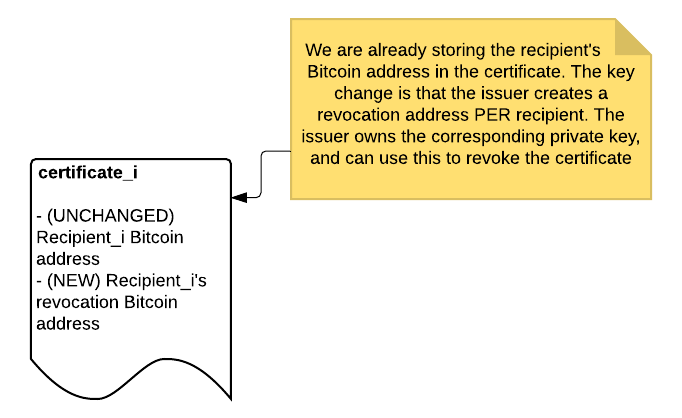
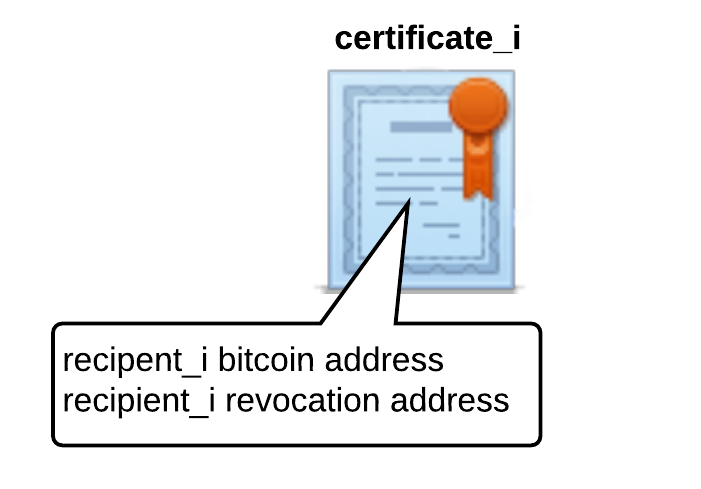
update batch issuing info

diff --git a/guide/batch-issuing.md b/guide/batch-issuing.md
@@ -4,47 +4,48 @@ layout: guide
 
 ## Batch Issuing (Technical Details)
 
-While you can issue one certificate with one Bitcoin transaction, it is far more efficient to use one Bitcoin transaction to issue a batch of certificates. The batch limit is roughly 2,000 and is determined by the Bitcoin transaction size limit.
+While you can issue one certificate with one Bitcoin transaction, it is far more efficient to use one Bitcoin transaction to issue a batch of certificates. Blockchain Certificates can be issued as a batch with a limit of roughly 2,000, as determined by the Bitcoin transaction size limit.
 
-The issuer builds a Merkle tree of certificate hashes and registers the Merkle root as the OP_RETURN field in the Bitcoin transaction.
+The issuer builds a Merkle tree of certificate hashes and registers the Merkle root as the OP_RETURN field in the Bitcoin transaction. 
 
-Verification of certificates issued as a batch changes the validation process because the recipient must prove their certificate’s location in the tree. The Chainpoint JSON LD schema is currently being used for [Merkle receipts](https://github.com/chainpoint/whitepaper/raw/master/chainpoint_white_paper.pdf).
+### How it works
 
-A batch-issued certificate is verified by the Merkle proof/receipt, which consists of:
+Suppose the batch contains `n` certificates, and certificate `i` contains recipient `i`'s information:
 
-*   The recipient’s signed certificate
-*   The transaction on the blockchain
-*   A path to the recipient’s signed certificate in the Merkle tree
+![](/assets/img/pictures/cert_i.png)
+
+The issuer hashes each certificate and combines then into a Merkle tree as follows:
+
+![](/assets/img/pictures/merkle.png)
+
+The root of the Merkle tree is issued on the Bitcoin blockchain. The complete Bitcoin transaction outputs are described in 'Transaction structure'.
+
+The Blockchain Certificate given to recipient `i` contains a [Chainpoint V2-formatted Merkle receipt](https://github.com/chainpoint/whitepaper/raw/master/chainpoint_white_paper.pdf) proving that certificate `i` is contained in the Merkle tree. This receipt contains:
+ * The Bitcoin transaction ID storing the Merkle root
+ * The Merkle path from recipient `i`'s certificate to the Merkle root, i.e. the path highlighted in orange above. h_i -> … -> root
+
+The [verification process](verification-process.html) performs computations to check that:
+ * the hash of certificate `i` matches the value in the receipt
+ * the Merkle path is valid
+ * the Merkle root stored on the blockchain matches the value in the receipt
+
+These steps establish that the certificate has not been tampered with since it was issued.
+
+### Hashing a certificate
+
+The `document` field of a Blockchain Certificate contains the certificate that the issuer created. This is the value we want to hash to compare against the receipt. Because there are no guarantees about ordering or formatting of JSON, we first normalize the `document` value of the certificate against our JSON LD schema. This allows us to obtain a deterministic hash across platforms.
+
+The detailed steps are described in [verification process](verification-process.html).
+
+
+### What should be in a batch?
 
 How a batch is defined can vary, but it should be defined such that it changes infrequently. For example, “2016 MIT grads” would be preferred over “MIT grads” (the latter would have to be updated every year). The size of the batch is limited by the 100KB max transaction size imposed by the Bitcoin network. This will amount to a max of around 2,000 recipients per certificate batch.
 
 ### Transaction structure
 
-Each recipient’s Bitcoin address and revocation address are included in the transaction outputs.
-
-*   Revocation is the same, but the recipient’s revocation address (owned by the issuer) would need to be included in the certificate.
-*   Issuer needs to track the revocation private/public key per recipient.
-*   Verification needs to check whether the revocation address mentioned in the certificate is spent. If so, then the certificate hash is invalid.
-*   Cost is a function of certificate batch size.
-
-### Diagrams
-
-Below are sketches of the multiple recipient output batch approach.
-
-### Certificate addition: recipient-specific revocation field
-
-![](/assets/img/pictures/cert_i.png)
-
-### Merkle structure
-
-![](/assets/img/pictures/merkle.png)
-
-### Transaction outputs: public/revocation pair per recipient
+Each recipient’s Bitcoin address and revocation address are included in the transaction outputs. This means that the Issuer needs to create and track the revocation private/public key per recipient. The verification process checks whether the recipient-specific revocation address in a certificate is spent. If so, then the certificate is invalid.
 
 ![](/assets/img/pictures/tx_out.png)
 
-### Addition to recipient’s proof (compared to v1)
 
-In addition to the signed certificate and transaction ID, a receipt establishes the location of the certificate within the Merkle tree. For a recipient in the Merkle tree above, this is the path:
-
-root -> … hash((i-1)+i) -> …hi

diff --git a/guide/creating-certificates.md b/guide/creating-certificates.md
@@ -4,7 +4,7 @@ layout: guide
 
 ## Creating Blockchain Certificates
 
-The [cert-tools](https://github.com/blockchain-certificates/cert-tools) repo contains rudimentary scripts to help create a Blockchain Certificate. These are simple, but very configurable, and include some fake data to get started. There are two components to creating certificates: creating templates and instantiating a batch. After running these scripts, you will have a Blockchain Certificate that is compliant with the standard schema.
+The [cert-tools](https://github.com/blockchain-certificates/cert-tools) repo contains rudimentary scripts to help create a Blockchain Certificate. These are simple, but very configurable, and include some sample data to get started. There are two components to creating certificates: creating templates and instantiating a batch. After running these scripts, you will have a Blockchain Certificate that is compliant with the standard schema.
 
 Detailed information is in the [cert-tools README.md](https://github.com/blockchain-certificates/cert-tools/blob/master/README.md).
 
